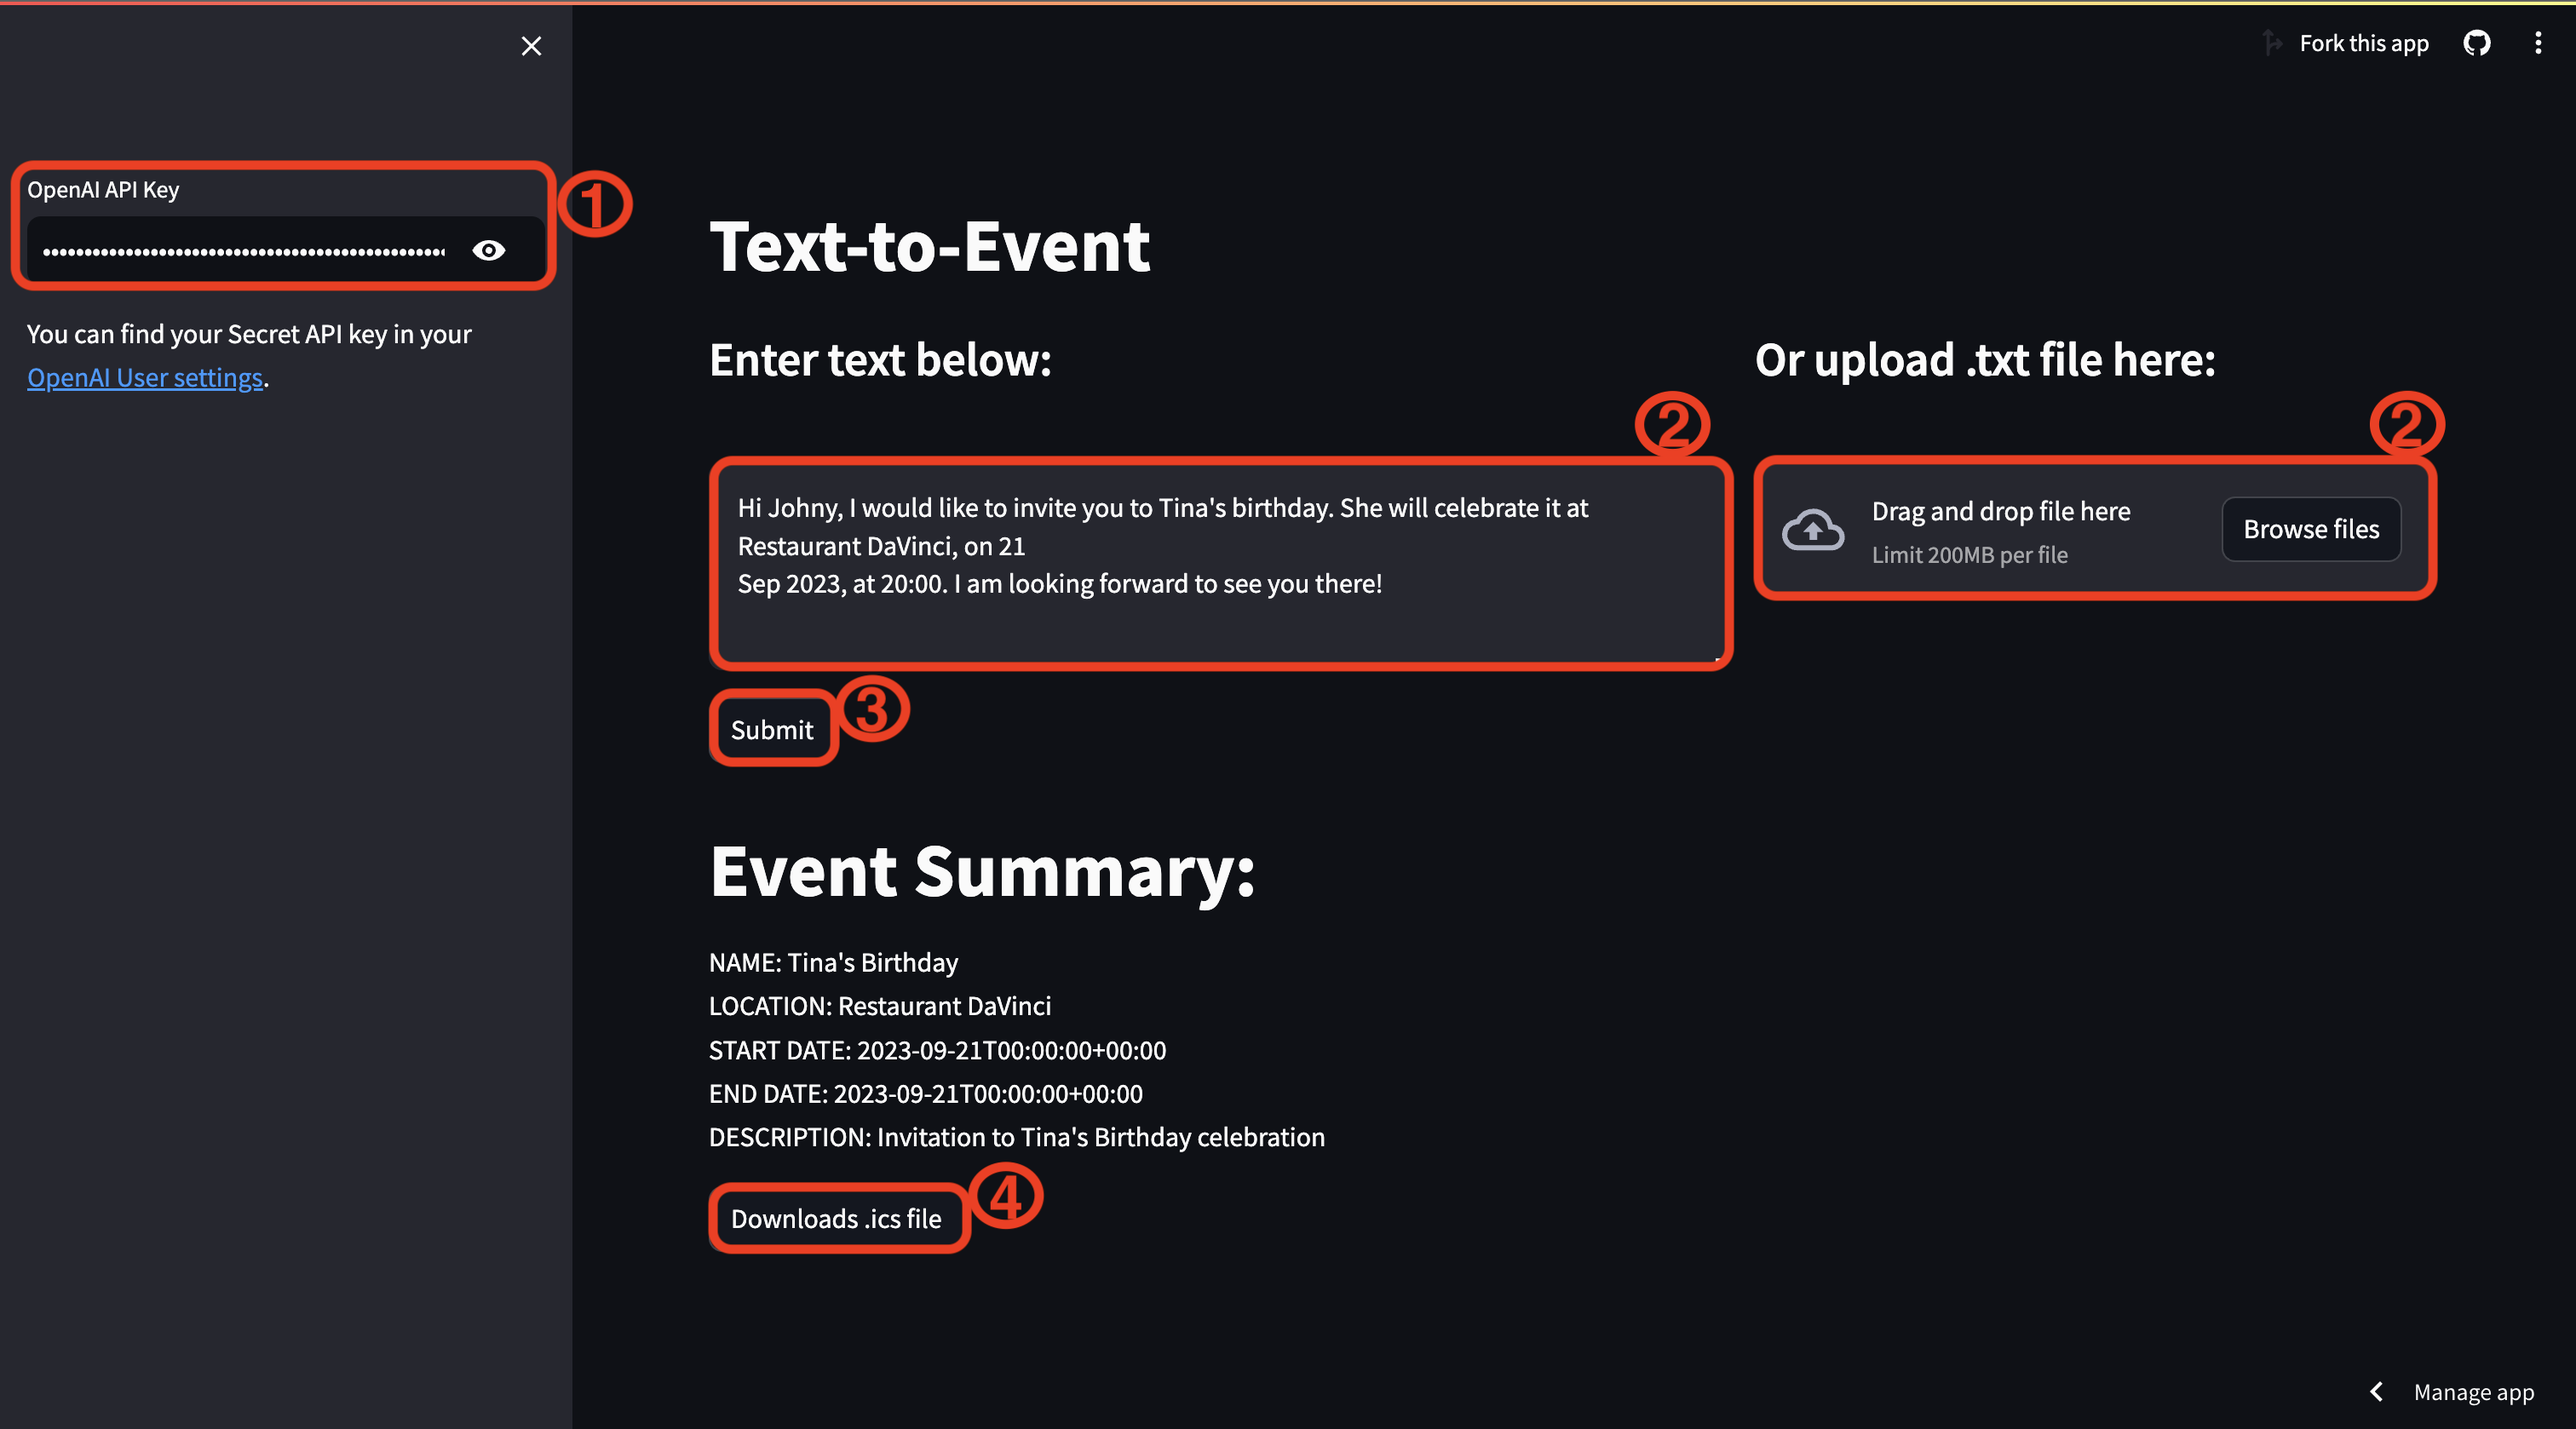
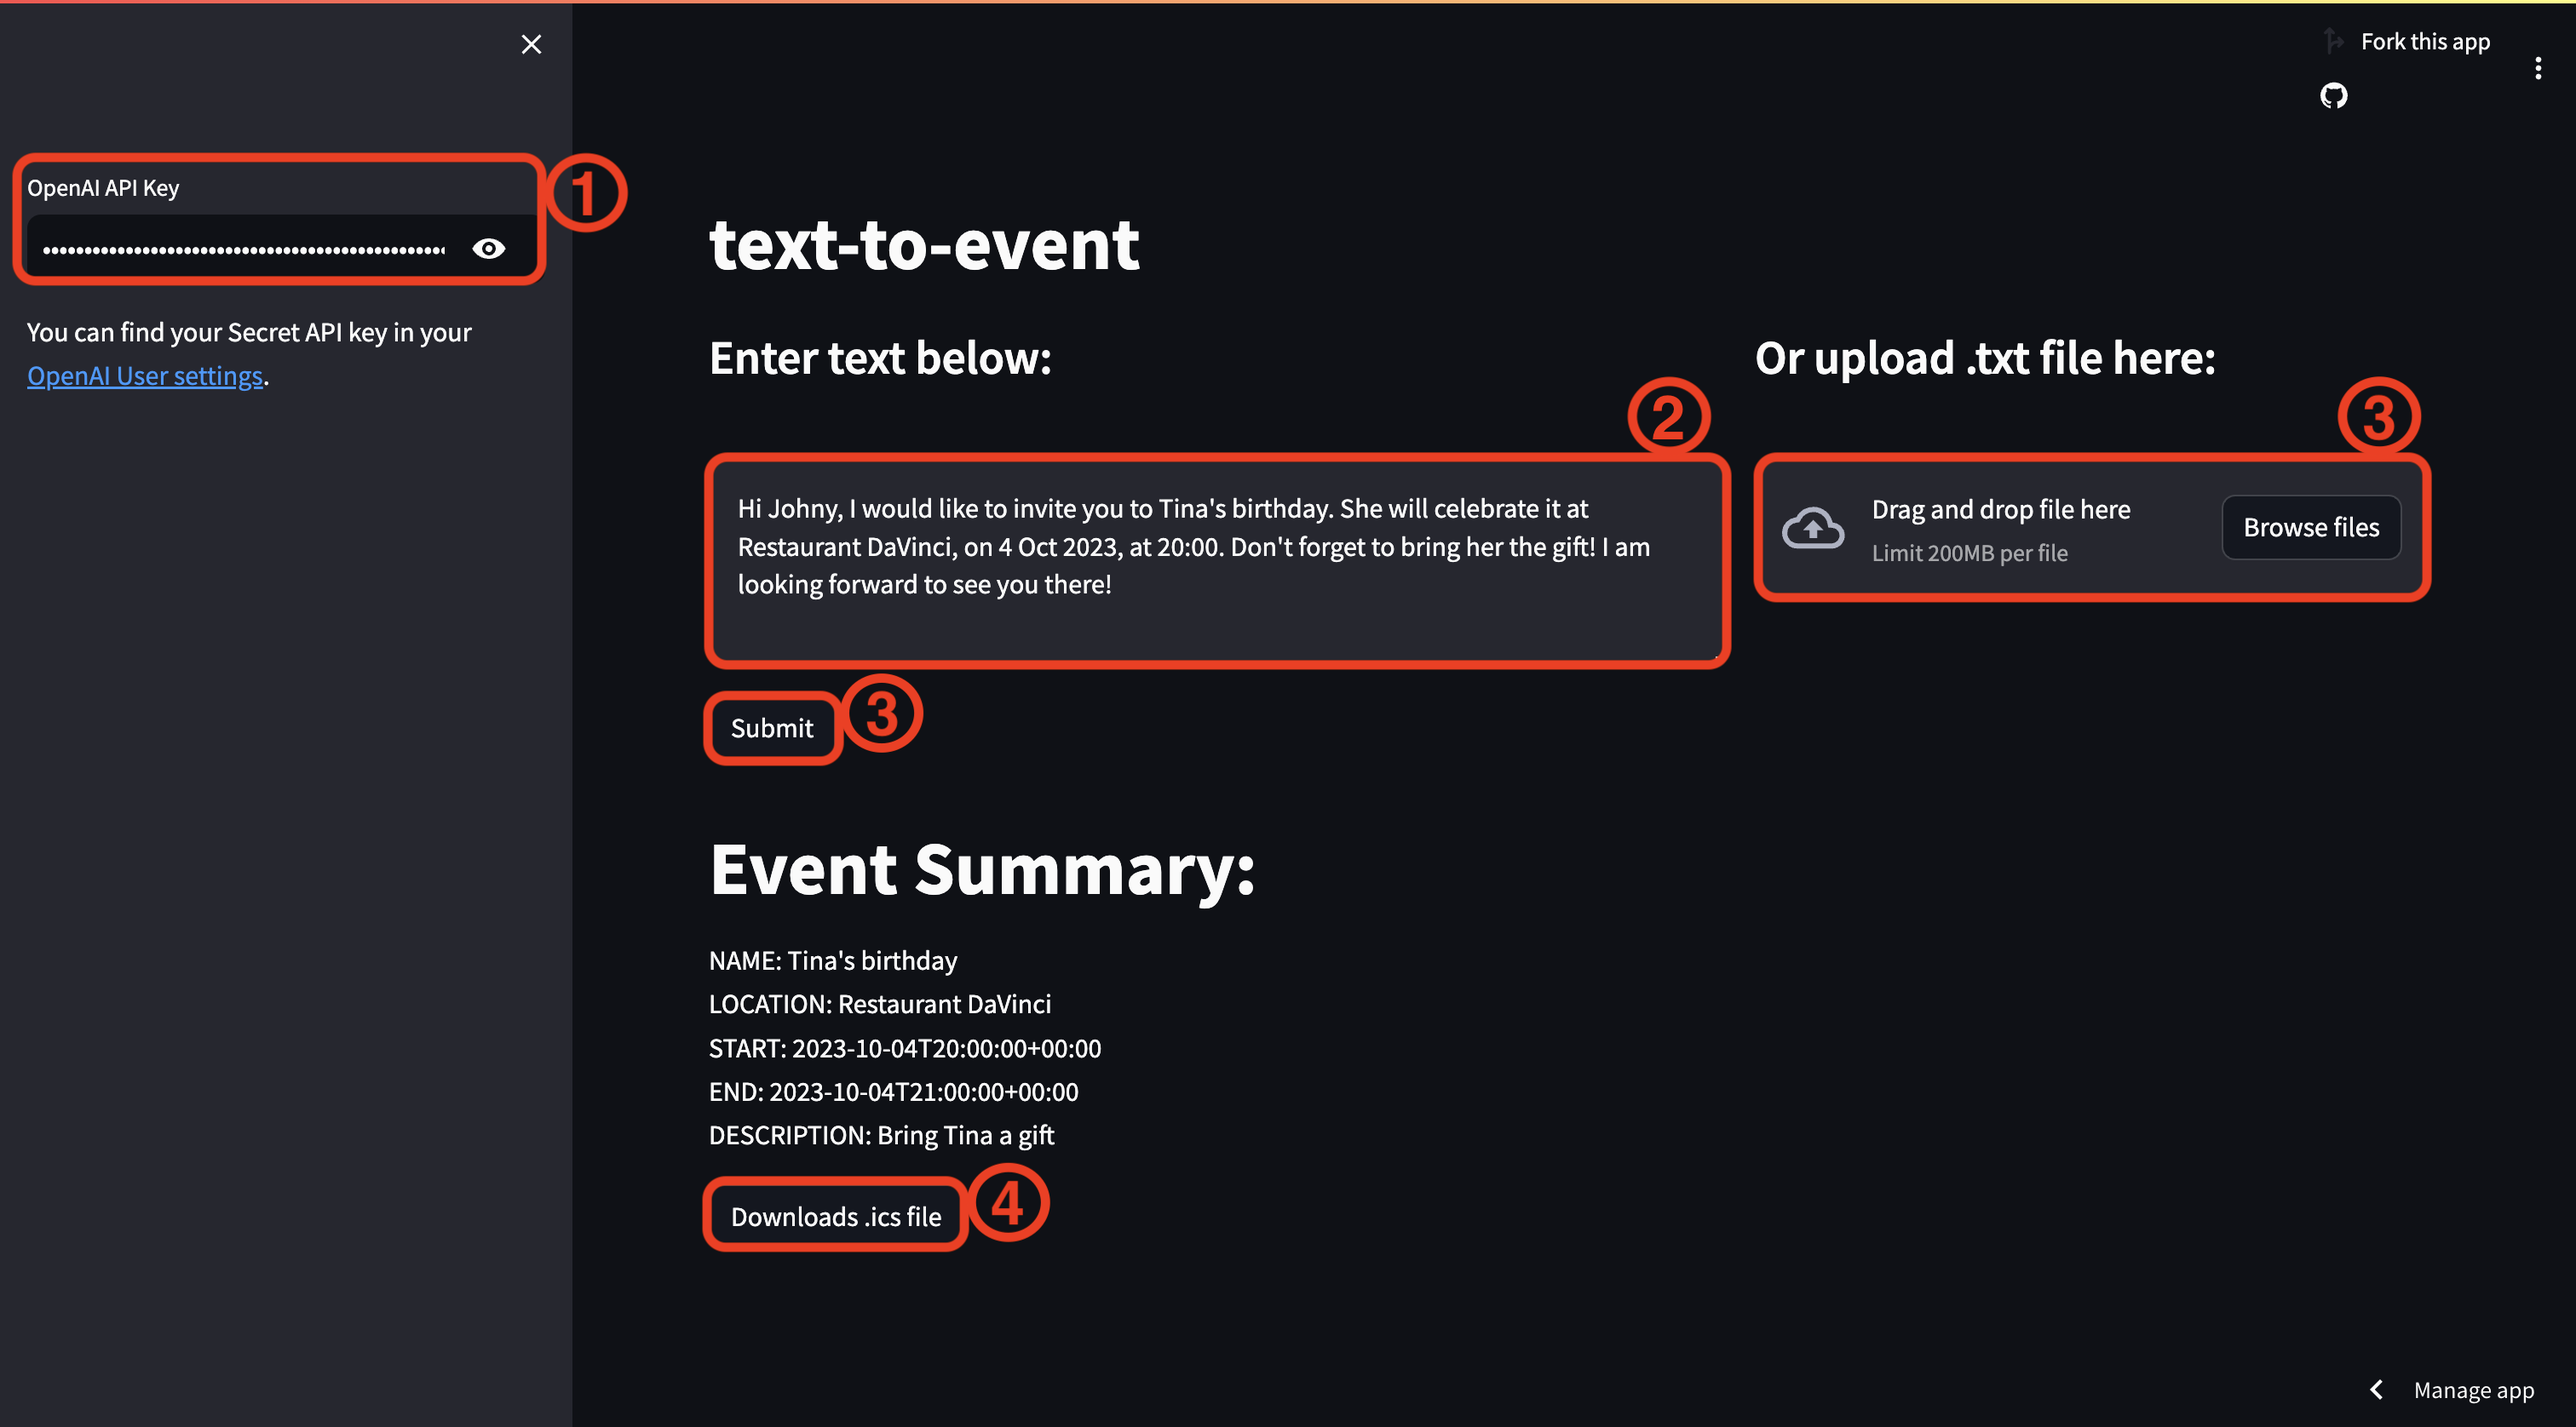
Updated instructions pic

diff --git a/README.md b/README.md
@@ -14,7 +14,5 @@ App accessible at https://text-to-event.streamlit.app
 <br /><br />
 
 ### TODO:
-  - Timezone support
-  - Update instruction pic
   - Output parser with LangChain
-    
+  - Timezone support
